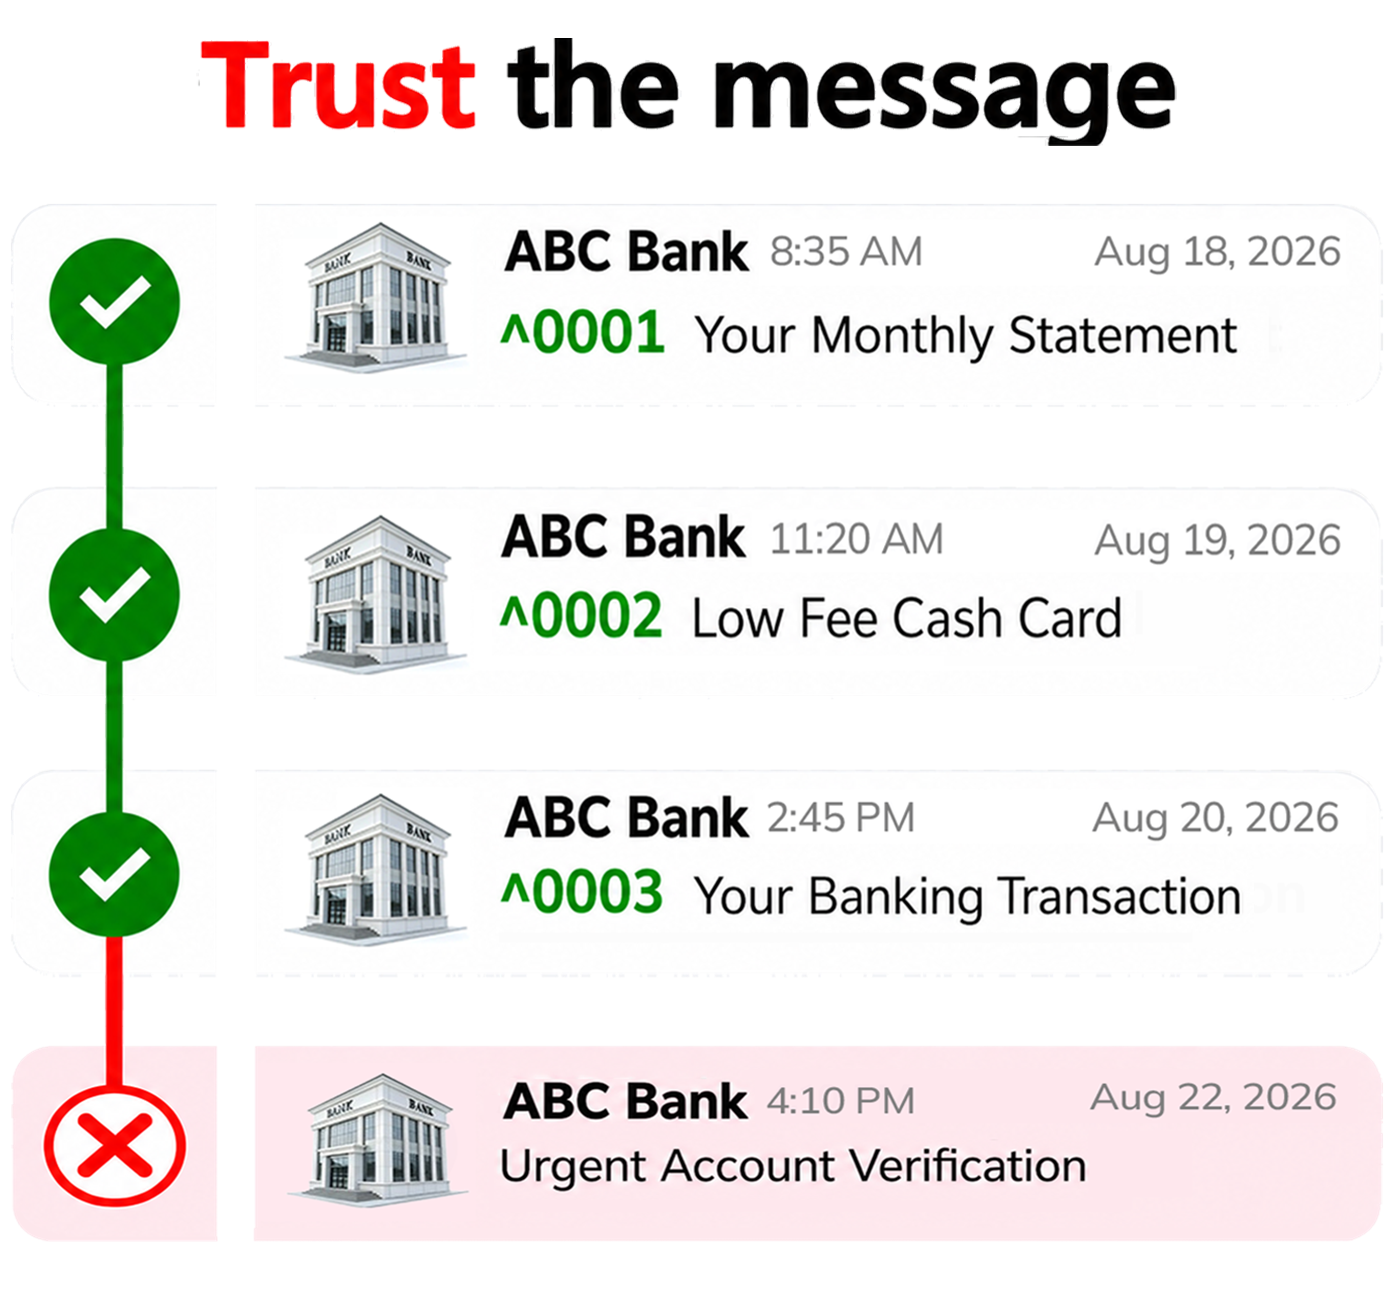
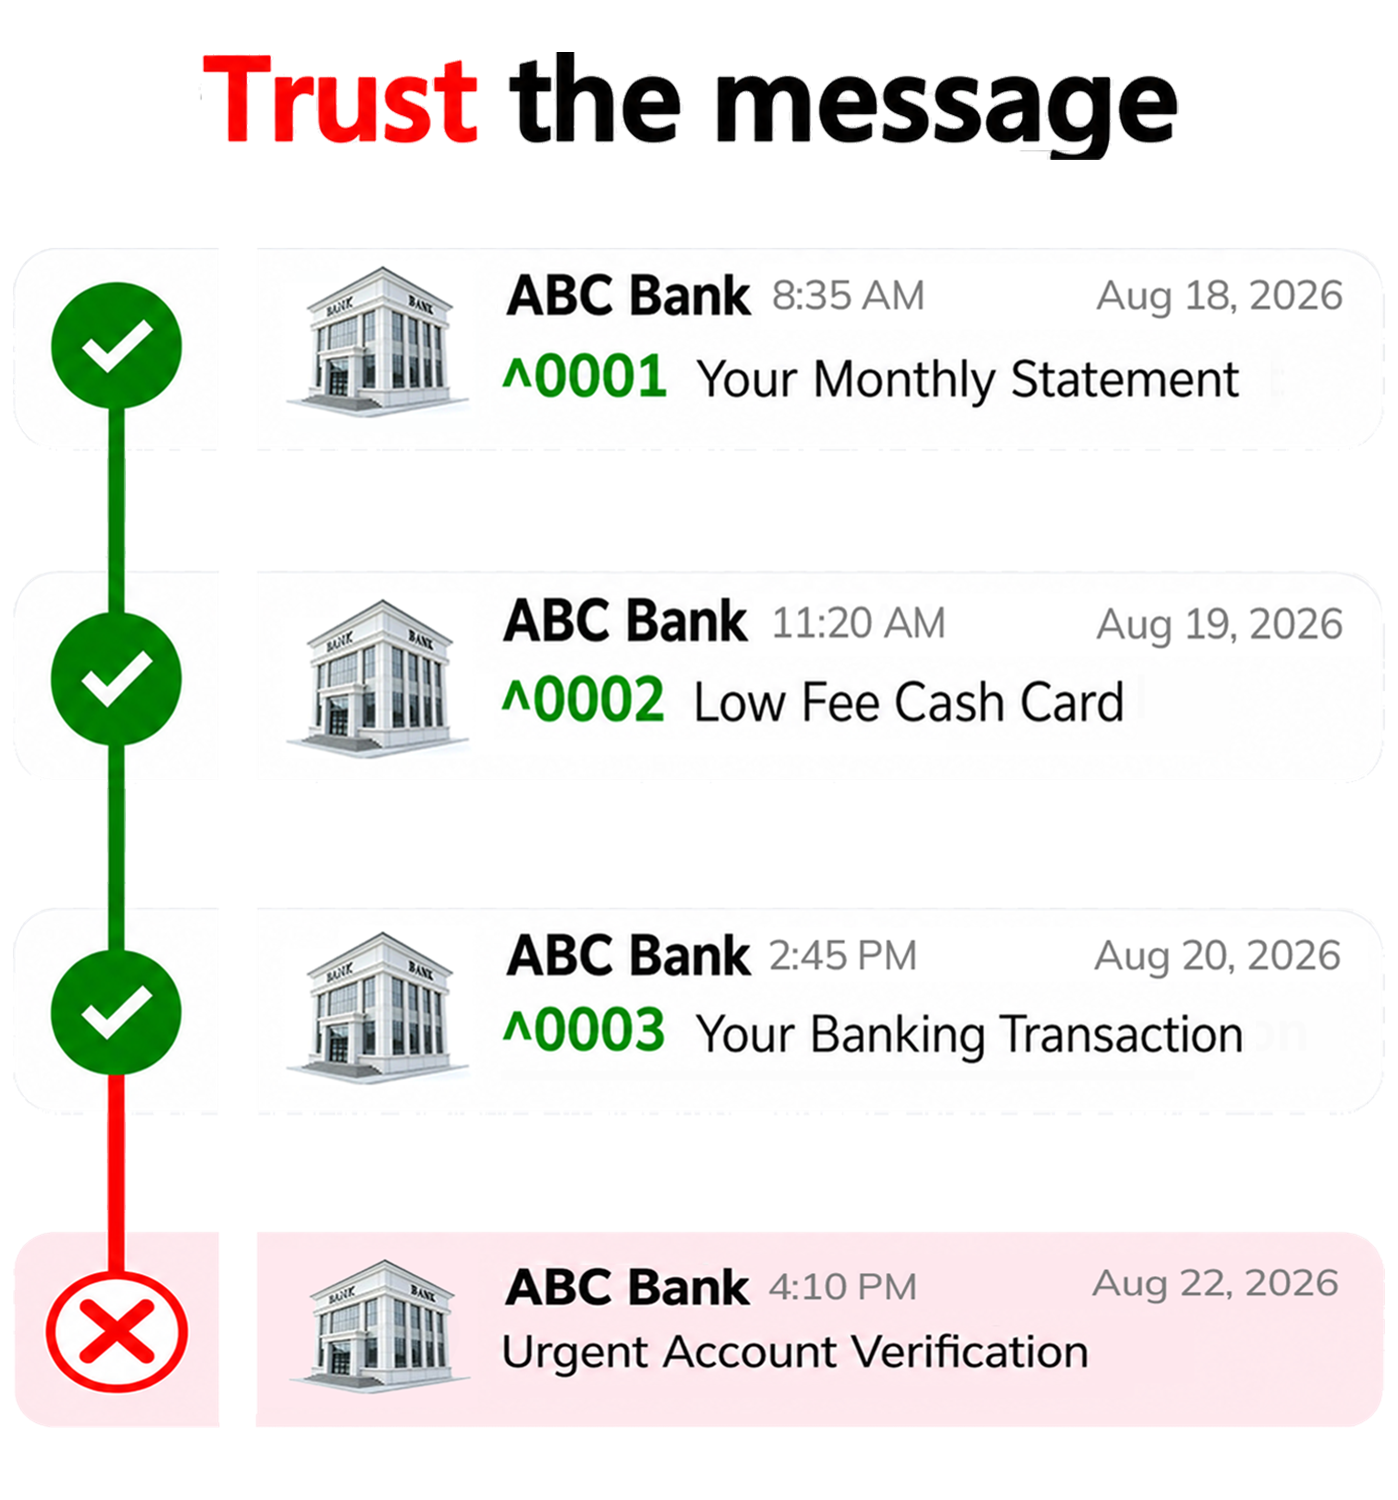
Nudge hero v1.png down in Home hero, update hero v1/v2 assets
- Home.jsx: hero v1.png offset -translate-y-6 -> -translate-y-2

Claude-Session: https://claude.ai/code/session_01XCiRECxp6uRK3GjEijD8FF

diff --git a/src/pages/Home.jsx b/src/pages/Home.jsx
@@ -57,7 +57,7 @@ export default function Home() {
           <img
             src="/assets/images/hero%20v1.png"
             alt="See the difference. Trust the messages."
-            className="h-auto w-full -translate-y-6 object-contain pic-with-no-link-mouse-over-increase"
+            className="h-auto w-full -translate-y-2 object-contain pic-with-no-link-mouse-over-increase"
           />
         </div>
         <div className="min-w-0 lg:flex-1">
